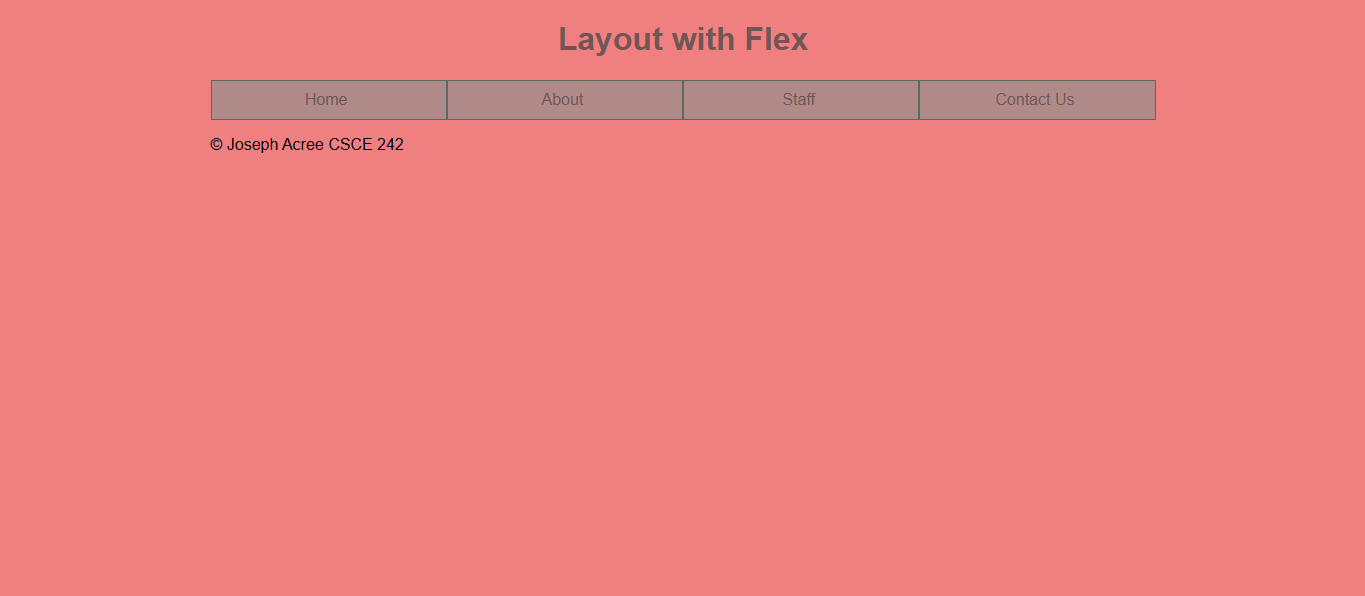
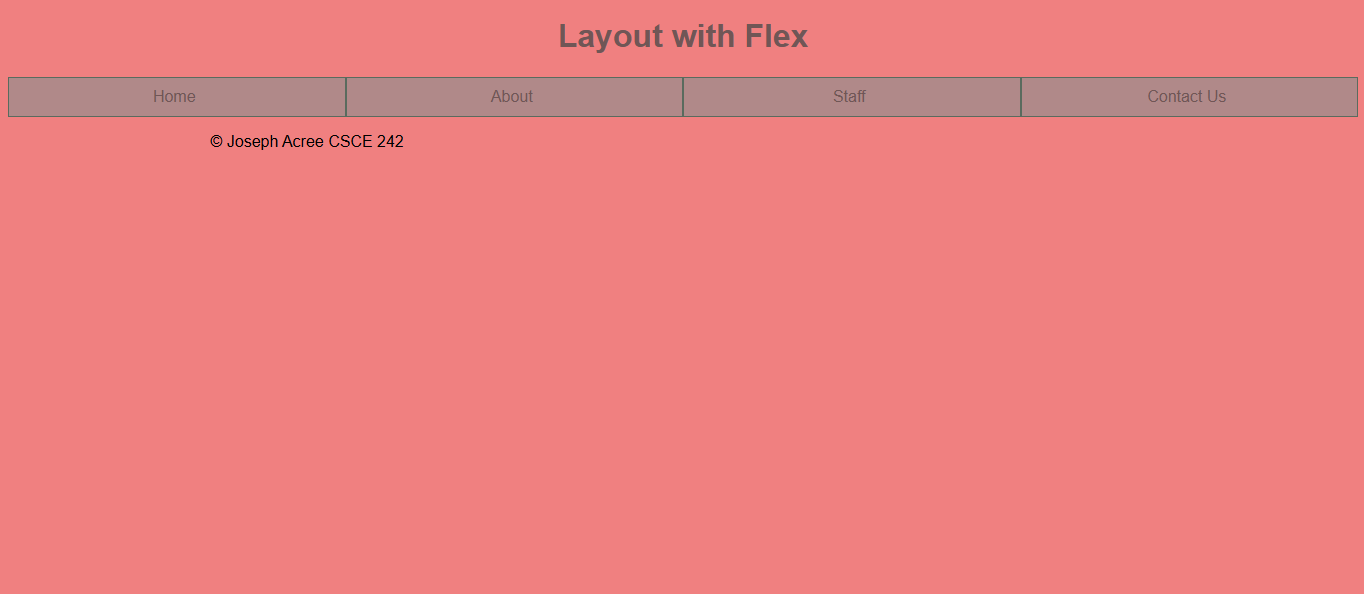
added new styling to main page

Changed region(s): [[0.0, 0.1212, 1.0, 0.2727], [0.4003, 0.0303, 0.585, 0.0909]]

diff --git a/csce242/styles.css b/csce242/styles.css
@@ -5,7 +5,7 @@ body {
 }
 
 #content {
-    background-color: #C7F2CF;
+    background-color:#C7F2CF;
     width: 90%;
     margin: auto;
     padding:1%;
@@ -16,7 +16,9 @@ body {
 /* Repository Navigation */
 #repository-nav a {
     text-decoration: none;
+    background:#DC1235;
     color:#003C21;
+    border:solid 1px #023106;
 }
 
 #repository-nav a:hover {
@@ -30,11 +32,16 @@ body {
 }
 
 #assignment-nav li {
-    background-color:#023106;
+    background-color:#003C21;
     margin:auto;
     width:400px;
     padding:10px;
     margin:20px;
+}
+
+#assignment-nav li:hover {
+    color:rgb(12, 204, 12);
+    background-color:#732530;
 }
 
 #assignment-nav a {
@@ -44,11 +51,6 @@ body {
     text-decoration: none;
     display:block;
     color:#DC1235;
-}
-
-#assignment-nav a:hover {
-    color:rgb(12, 204, 12);
-    background-color:#732530;
 }
 
 /* Images */
@@ -87,6 +89,7 @@ body {
 /* Columns */
     .columns {
         display:flex;
+
     }
 
 /* Smaller devices */
@@ -101,6 +104,11 @@ body {
     }
 
     /* Assignment Navigation */
+    #assignment-nav li {
+        margin:5%;
+    }
+
+    /* Columns */
     .columns {
         display:block;
     }

diff --git a/csce242/assignments/03flex/index.html b/csce242/assignments/03flex/index.html
@@ -5,8 +5,7 @@
         <link rel="stylesheet" href="styles.css">
     </head>
     <body>
-        <div id="content">
-            <h1 id="title">Layout with Flex</h1>
+        <h1 id="title">Layout with Flex</h1>
             <header id="main-header">
                 <nav id="main-nav">
                     <ul class="columns">
@@ -17,6 +16,8 @@
                     </ul>
                 </nav>
             </header>
+        <div id="content">
+
             <main id="main-content">
                 
             </main>

diff --git a/csce242/assignments/03flex/styles.css b/csce242/assignments/03flex/styles.css
@@ -4,12 +4,12 @@ body {
 }
 
 #content {
-    width:100%;
     margin:auto;
 }
 
 #main-header {
     width:100%;
+    padding:0;
 }
 
 
@@ -58,10 +58,10 @@ body {
     /* Columns */
     .columns {
         display:flex;
-        
     }
 
     /* Main Nav */
+
     #main-nav li {
         flex:1;
     }
